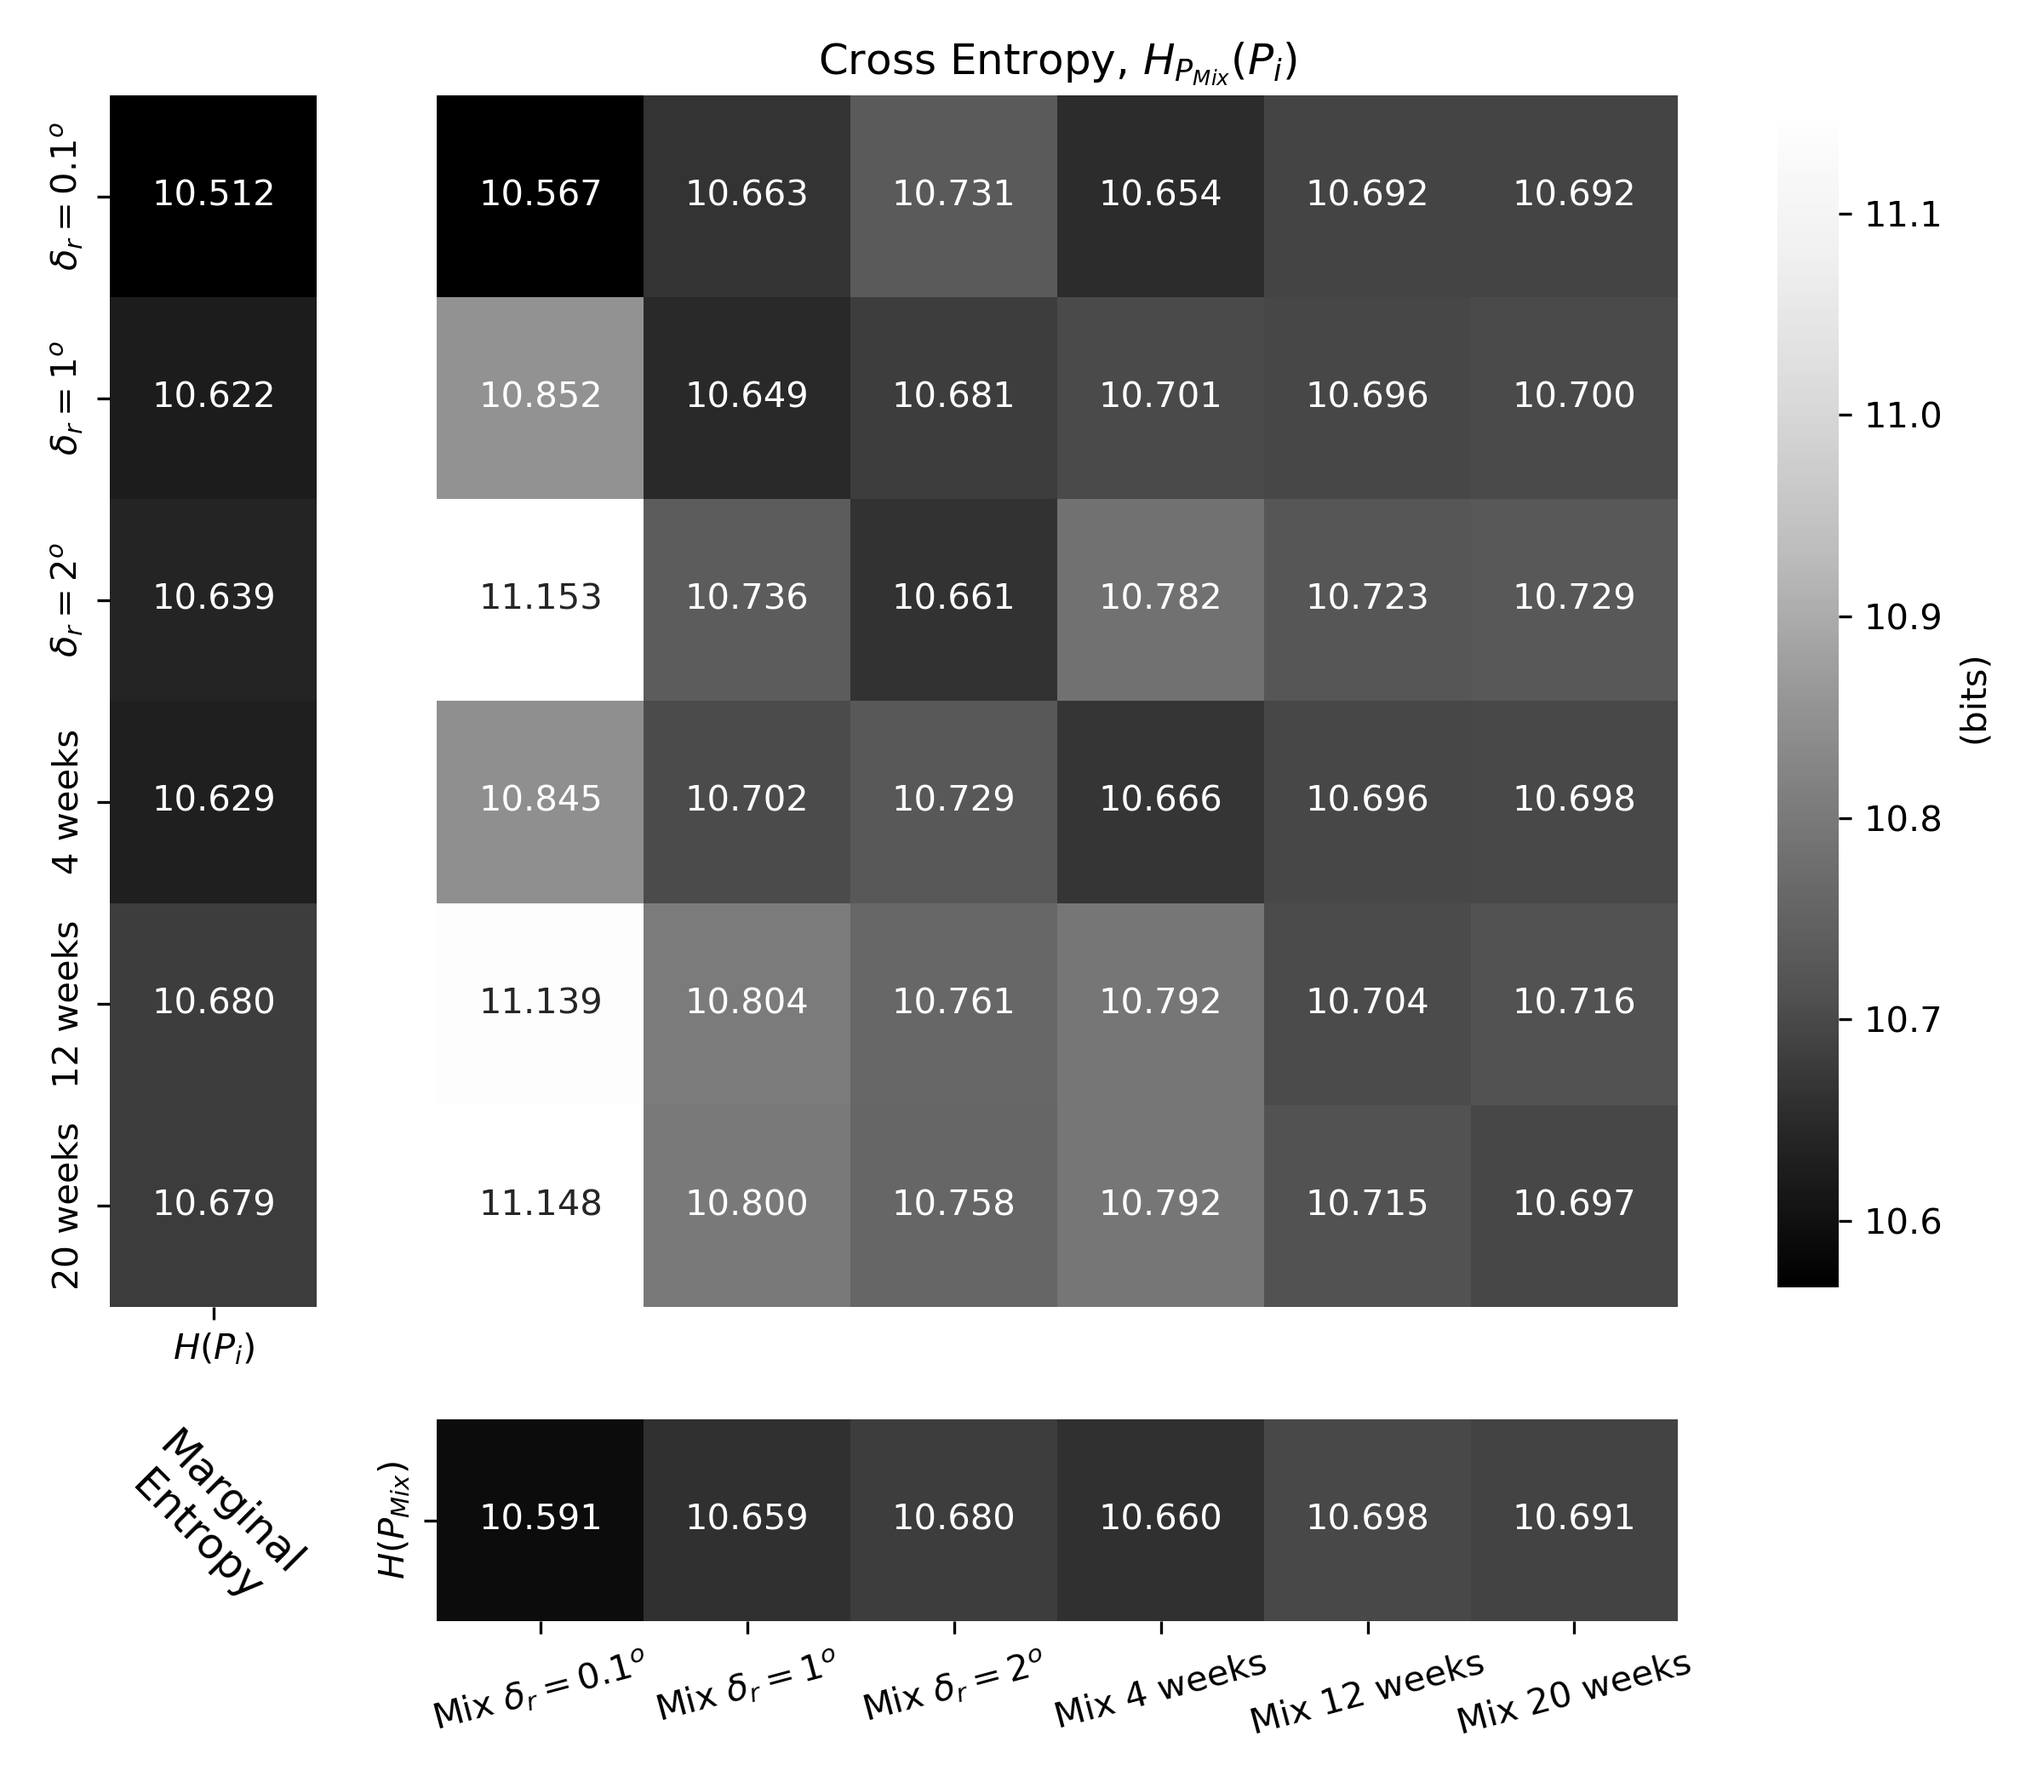
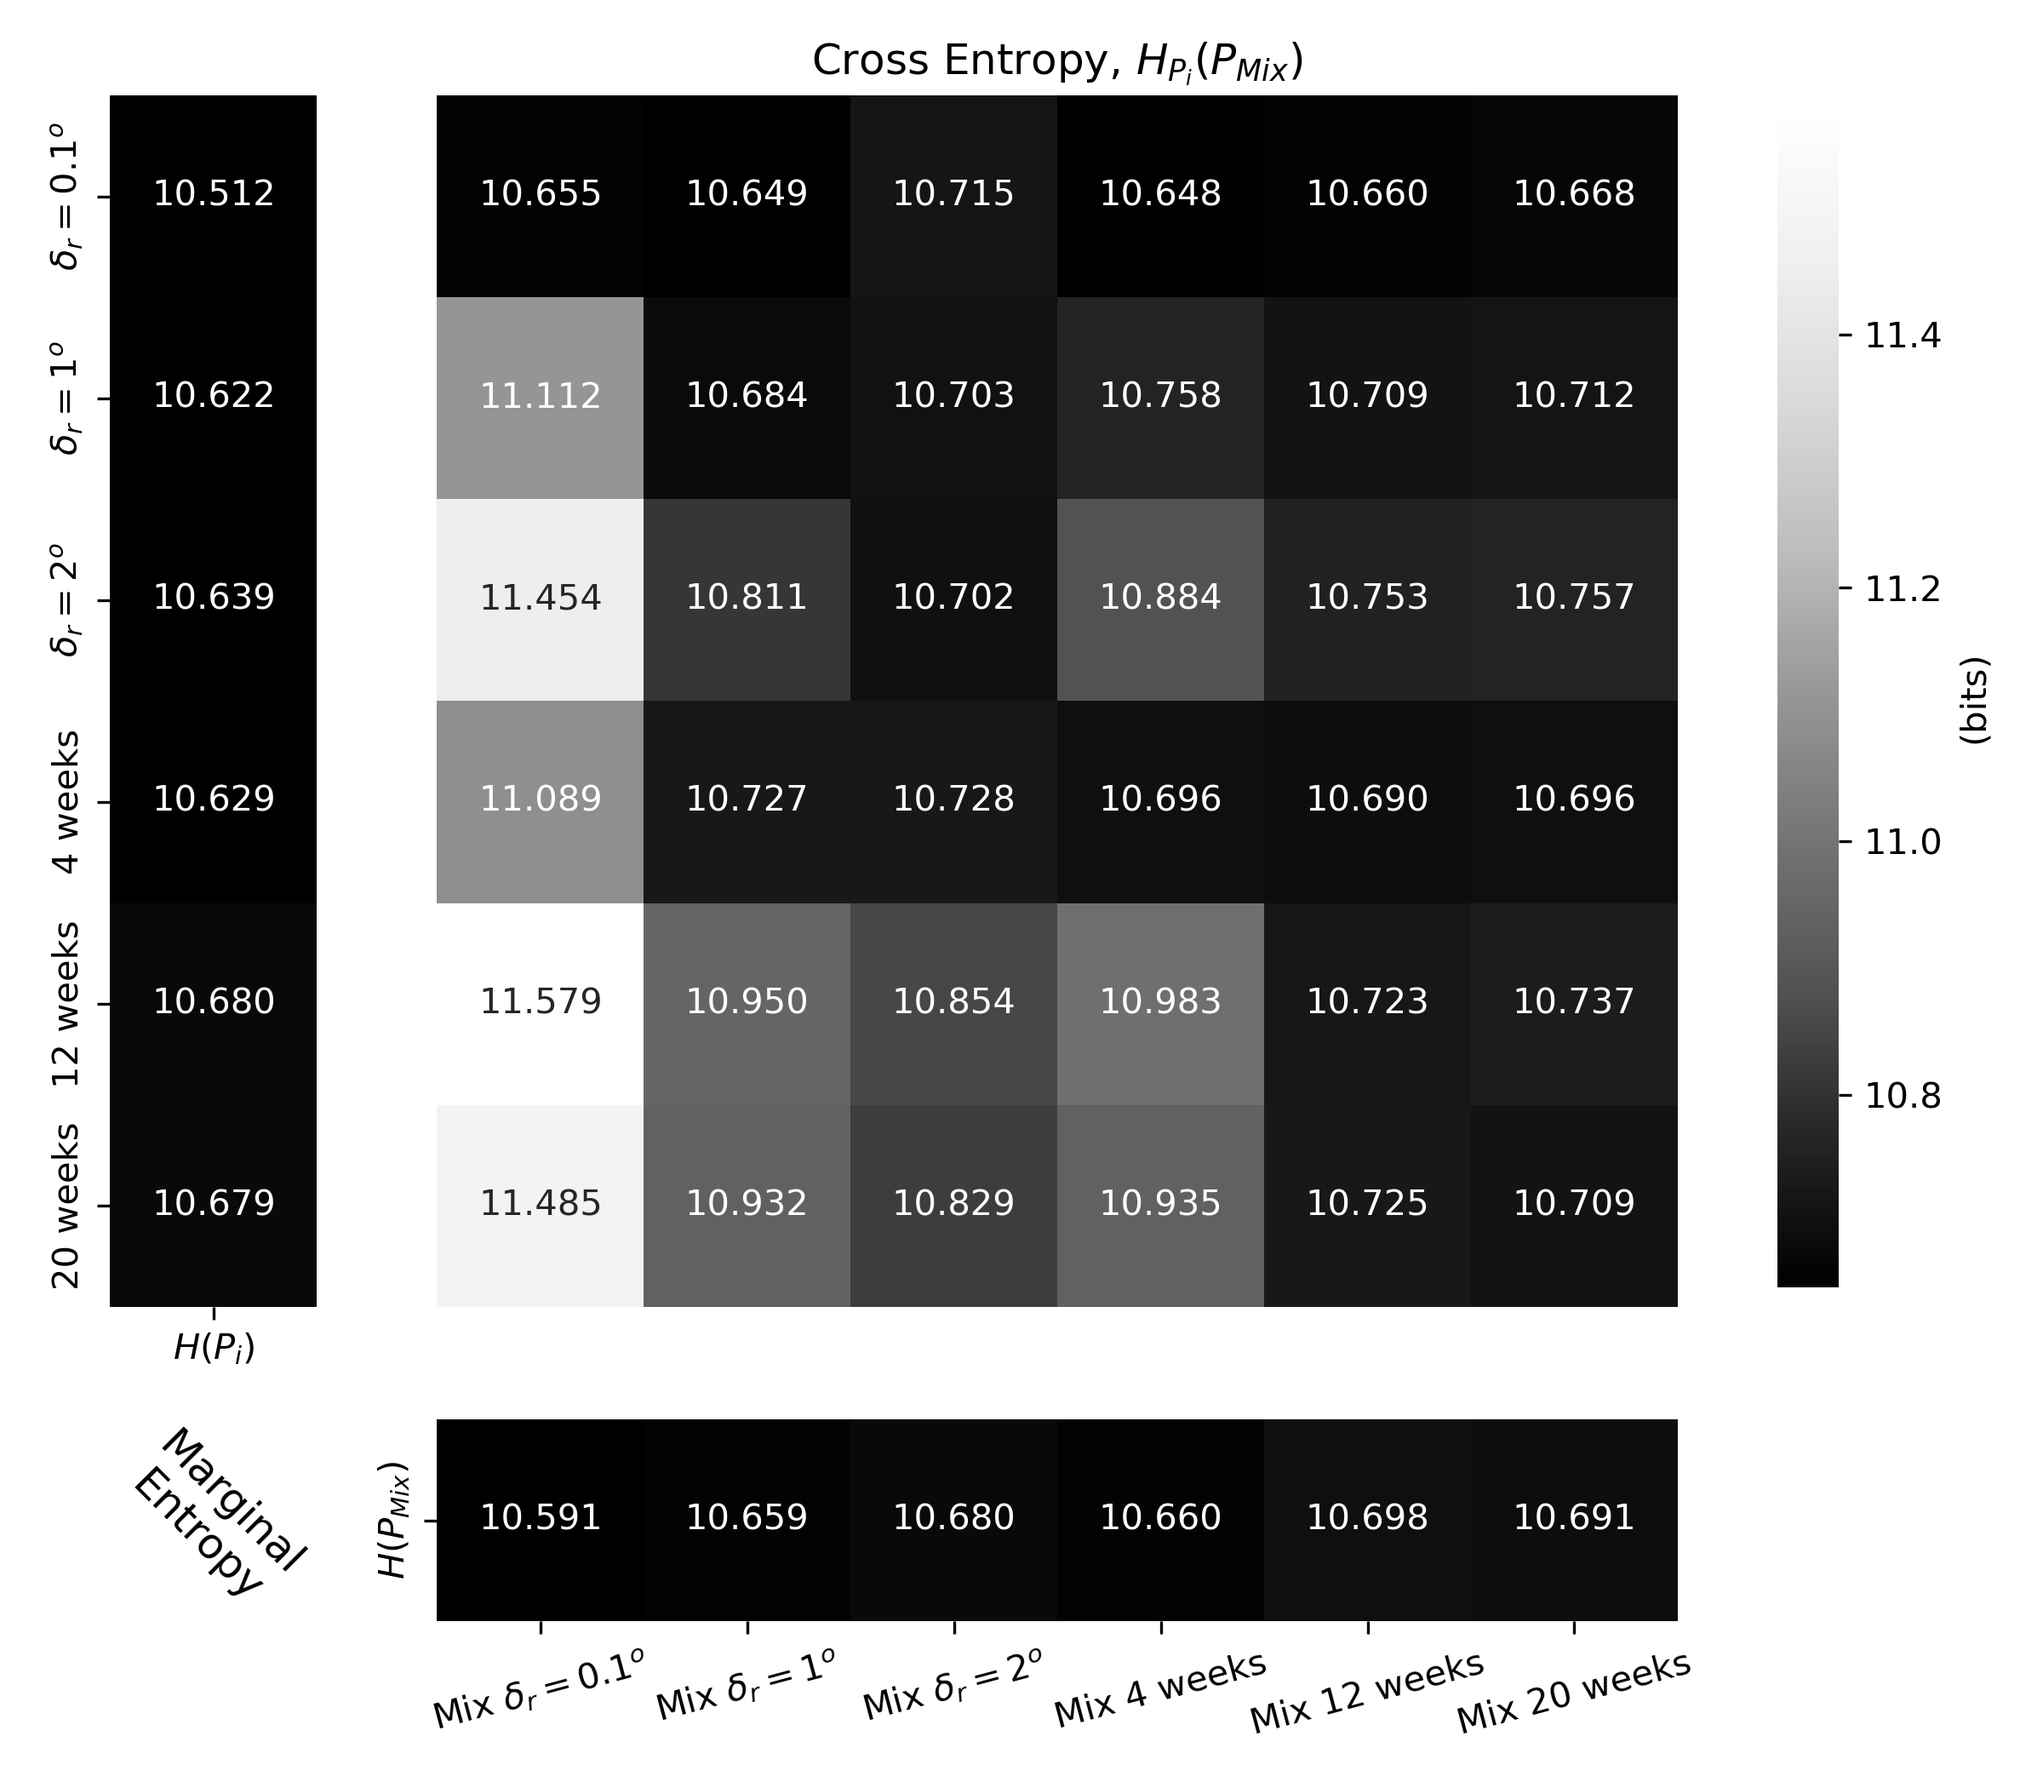
flip KLD to estimate uncertainty, according to Chen et al 2024

diff --git a/plot_scripts/Cross_entropy_in_time.py b/plot_scripts/Cross_entropy_in_time.py
@@ -45,27 +45,30 @@ hex_grid = hexfunc.int_to_hex(P_AX.hexint.values)
 hexbin_grid = hexfunc.hexGrid(hex_grid, h3_res=3)
 
 
+time_length = 2189 - 7*20
+time_range = np.arange(0, time_length)
+
+
 #%% KLD
 N_members = 50
 
-time_length = 2189 - 7*20
-time_range = np.arange(0, time_length)
+flip = True
 
 KLD_ALL_mean = {}
 KLD_ALL_std = {}
 
-for delta_ref in [0.1, 1., 2.]:
+for delta_ref in [4, 12, 20]:
     
     KLDivergence_mean = {}
     KLDivergence_std = {}
     
-    for set in [0.1, 2., 4, 20]:
+    for set in [0.1, 1., 2., 4, 12, 20]:
         print(f'Processing set P: {delta_ref}, Q:{set}')
 
         _KLD = np.zeros((N_members**2, time_length))
 
-        l = 0
-        for member in tqdm(range(1, N_members+1)):
+        
+        for l, member in tqdm(enumerate(range(1, N_members+1))):
             for subset_ref in range(1, N_members+1):
                 # print(f'member {member} and subset {subset_ref}')
 
@@ -85,40 +88,55 @@ for delta_ref in [0.1, 1., 2.]:
                 P_Q = xr.open_dataset(file_path_Q)
                 P_Q = P_Q.sortby('hexint')
 
-                _KLD[l, :] = KLDivergence(P_ref['probability'], P_Q['probability'], axis=0)[:time_length]
-                l+=1
-                
+                if flip:
+                    _KLD[l, :] = KLDivergence(P_Q['probability'], P_ref['probability'], axis=0)[:time_length]
+                    patch = '_flipped'
+                else:
+                    _KLD[l, :] = KLDivergence(P_ref['probability'], P_Q['probability'], axis=0)[:time_length]
+                    patch = '_normal'
+                    
+                    
         avg_KLD = np.mean(_KLD, axis=0)
         std_KLD = np.std(_KLD, axis=0)
         
         KLDivergence_mean[set] = avg_KLD
         KLDivergence_std[set] = std_KLD
         
-    with open(f'/storage/shared/oceanparcels/output_data/data_Claudio/NEMO_Ensemble/analysis/KLD_time/KLD_time_{delta_ref}.pkl', 'wb') as f:
+    with open(f'/storage/shared/oceanparcels/output_data/data_Claudio/NEMO_Ensemble/analysis/KLD_time/KLD_time_{delta_ref}{patch}.pkl', 'wb') as f:
         pickle.dump(KLDivergence_mean, f)
     
-    with open(f'/storage/shared/oceanparcels/output_data/data_Claudio/NEMO_Ensemble/analysis/KLD_time/KLD_time_{delta_ref}_std.pkl', 'wb') as f:
+    with open(f'/storage/shared/oceanparcels/output_data/data_Claudio/NEMO_Ensemble/analysis/KLD_time/KLD_time_{delta_ref}_std{patch}.pkl', 'wb') as f:
         pickle.dump(KLDivergence_std, f)
 
     KLD_ALL_mean[delta_ref] = KLDivergence_mean
     KLD_ALL_std[delta_ref] = KLDivergence_std
 
 #%% # save KLDivergence_mean and KLDivergence_std to file
-with open(f'/storage/shared/oceanparcels/output_data/data_Claudio/NEMO_Ensemble/analysis/KLD_time/KLD_time_ALL_mean.pkl', 'wb') as f:
-    pickle.dump(KLD_ALL_mean, f)
+# with open(f'/storage/shared/oceanparcels/output_data/data_Claudio/NEMO_Ensemble/analysis/KLD_time/KLD_time_ALL_mean{patch}.pkl', 'wb') as f:
+#     pickle.dump(KLD_ALL_mean, f)
         
-with open(f'/storage/shared/oceanparcels/output_data/data_Claudio/NEMO_Ensemble/analysis/KLD_time/KLD_time_ALL_std.pkl', 'wb') as f:
-    pickle.dump(KLD_ALL_std, f)
-    
-# #%% Load KLDivergence_mean and KLDivergence_std from file
-# with open(f'/storage/shared/oceanparcels/output_data/data_Claudio/NEMO_Ensemble/analysis/KLD_time/KLD_time_ALL_mean.pkl', 'rb') as f:
-#     KLD_ALL_mean = pickle.load(f)
-    
-# with open(f'/storage/shared/oceanparcels/output_data/data_Claudio/NEMO_Ensemble/analysis/KLD_time/KLD_time_ALL_std.pkl', 'rb') as f:
-#     KLD_ALL_std = pickle.load(f)
+# with open(f'/storage/shared/oceanparcels/output_data/data_Claudio/NEMO_Ensemble/analysis/KLD_time/KLD_time_ALL_std{patch}.pkl', 'wb') as f:
+#     pickle.dump(KLD_ALL_std, f)
+
+#%% Open pickles and make KLD_mean and KLD_std
+# KLD_ALL_mean = {}
+# KLD_ALL_std = {}
 
 
-# #%%
+# for delta_ref in [0.1, 2., 4, 20]:
+#     path = f'/storage/shared/oceanparcels/output_data/data_Claudio/NEMO_Ensemble/analysis/KLD_time/KLD_time_{delta_ref}.pkl'
+    
+#     with open(path, 'rb') as f:
+#         KLD_ALL_mean[delta_ref] = pickle.load(f)
+        
+#     path = f'/storage/shared/oceanparcels/output_data/data_Claudio/NEMO_Ensemble/analysis/KLD_time/KLD_time_{delta_ref}_std.pkl'
+    
+#     with open(path, 'rb') as f:
+#         KLD_ALL_std[delta_ref] = pickle.load(f)
+
+    
+
+#%%
 # fig, axs = plt.subplots(2, 2, figsize=(10, 8), sharex=True, sharey=True)
 # # fig.subplots_adjust(hspace=0.4, wspace=0.4)
 
@@ -130,7 +148,7 @@ with open(f'/storage/shared/oceanparcels/output_data/data_Claudio/NEMO_Ensemble/
 # for i, key in enumerate(KLD_ALL_mean.keys()):
     
 #     lss = [(0, (1, 1)), '-.', '--', (0, (3, 1, 1, 1, 1, 1))]
-#     colors = ['mediumblue', 'teal', 'darkred', 'black']
+#     colors = ['mediumblue', 'teal', 'darkred', 'orange']
     
 #     ax = axs[i]
 #     for k, set in enumerate([0.1, 2., 4, 20]):
@@ -154,7 +172,7 @@ with open(f'/storage/shared/oceanparcels/output_data/data_Claudio/NEMO_Ensemble/
 
 #     ax.semilogx()
 #     ax.legend()
-#     # ax.grid()
+#     ax.grid()
 #     ax.set_xlim(0, time_length)
 #     ax.set_ylim(0, 30)
 
@@ -165,7 +183,7 @@ with open(f'/storage/shared/oceanparcels/output_data/data_Claudio/NEMO_Ensemble/
 
 # plt.tight_layout()
 
-# plt.savefig('../figs/KLDivergence_subplots.png', dpi=300)
+# plt.savefig(f'../figs/KLDivergence_subplots{patch}.png', dpi=300)
 # # %%
 # DF = {}
 
@@ -184,7 +202,7 @@ with open(f'/storage/shared/oceanparcels/output_data/data_Claudio/NEMO_Ensemble/
 #     DF[labeltt] = _kld
 
 # DF = pd.DataFrame(DF)
-# DF.set_index([[r'$\delta_r = 0.1^o$', r'$\delta_r = 2^o$', 'Mix 4 weeks', 'Mix 20 weeks']], inplace=True)
+# DF.set_index([[r'$\delta_r = 0.1^o$', r'$\delta_r = 2^o$', '4 weeks', '20 weeks']], inplace=True)
 
 # # %% Kullback-Leibler divergence plot 
 # fig, ax = plt.subplots(figsize=(6, 5))
@@ -200,11 +218,13 @@ with open(f'/storage/shared/oceanparcels/output_data/data_Claudio/NEMO_Ensemble/
 
 # # Add colorbar label
 # cbar = ax.collections[0].colorbar
-# cbar.set_label('Time Average KL Divergence, $D_{P_{Mix}}(P_i)$ (bits)')
+# cbar.set_label('Time Average KL Divergence, $D(P_{Mix}||P_i)$ (bits)')
 
 # plt.tight_layout()
 # plt.show()
 
-# fig.savefig("../figs/FigX_Time_Average_KLDivergence.png", dpi=300)
+# fig.savefig(f"../figs/FigX_Time_Average_KLDivergence{patch}.png", dpi=300)
 
 # # %%
+
+# %%

diff --git a/plot_scripts/Connectivity_entropy_measures.py b/plot_scripts/Connectivity_entropy_measures.py
@@ -23,7 +23,11 @@ def cross_entropy(P, Q):
     # Replace zeros with a very small number to avoid log(0)
     P_safe = np.where(P > 0, P, np.finfo(float).eps)
     return -np.nansum(Q * np.log2(P_safe))
- 
+
+def KLDivergence(P, Q):
+    # Kullback-Leibler divergence D_KL(P||Q)
+    # P is the true distribution, Q is the estimated distribution.
+    return cross_entropy(P, Q) - marginal_entropy(Q)
     
 #%% ################# Single Member #################
 Latitude_limit = None # 53 or 44
@@ -280,15 +284,21 @@ ensemble_entropy = np.zeros(6)
 ensemble_mix_entropy = np.zeros(6)
 
 
-    
 for j, delta in enumerate([0.1, 1., 2., 4, 12, 20]):
     
     cross = np.zeros(6)
     KLD = np.zeros(6)
     
     for i, delta_ref in enumerate([0.1, 1., 2., 4, 12, 20]):
-        cross[i] = cross_entropy(all_prob_mix[delta_ref], all_prob[delta]) #- marginal_entropy(all_prob[delta])
-        KLD[i] = cross_entropy(all_prob_mix[delta_ref], all_prob[delta]) - marginal_entropy(all_prob[delta])
+        
+        full = all_prob_mix[delta]
+        aprox = all_prob[delta_ref]
+        
+        # cross[i] = cross_entropy(all_prob_mix[delta_ref], all_prob[delta]) #- marginal_entropy(all_prob[delta])
+        # KLD[i] = cross_entropy(all_prob_mix[delta_ref], all_prob[delta]) - marginal_entropy(all_prob[delta])
+        
+        cross[i] = cross_entropy(aprox, full) #- marginal_entropy(all_prob[delta])
+        KLD[i] = KLDivergence(aprox, full)
 
     ensemble_cross_entropy[delta] = cross
     ensemble_KLD[delta] = KLD
@@ -352,7 +362,7 @@ cbar_ax2 = fig.add_axes([0.87, 0.28, 0.03, 0.66])
 
 sns.heatmap(central_plot_data, annot=True, fmt=".3f", cmap=cmmap, ax=axs[0, 1], cbar_ax=cbar_ax2)
 cbar_ax2.set_ylabel('(bits)')
-axs[0, 1].set_title(r'Cross Entropy, $H_{P_{Mix}}(P_i)$')
+axs[0, 1].set_title(r'Cross Entropy, $H_{P_{i}}(P_{Mix})$')
 
 # Adjust layout
 plt.tight_layout()
@@ -374,7 +384,7 @@ ax.set_xticklabels(ax.get_xticklabels(), rotation=15, ha='center', fontsize=9)
 
 # Add colorbar label
 cbar = ax.collections[0].colorbar
-cbar.set_label('KL Divergence, $D_{P_{Mix}}(P_i)$ (bits)')
+cbar.set_label('KL Divergence, $D(P_{Mix}||P_i)$ (bits)')
 
 # ax.set_xlabel(r'$P_{Mix}$')
 
